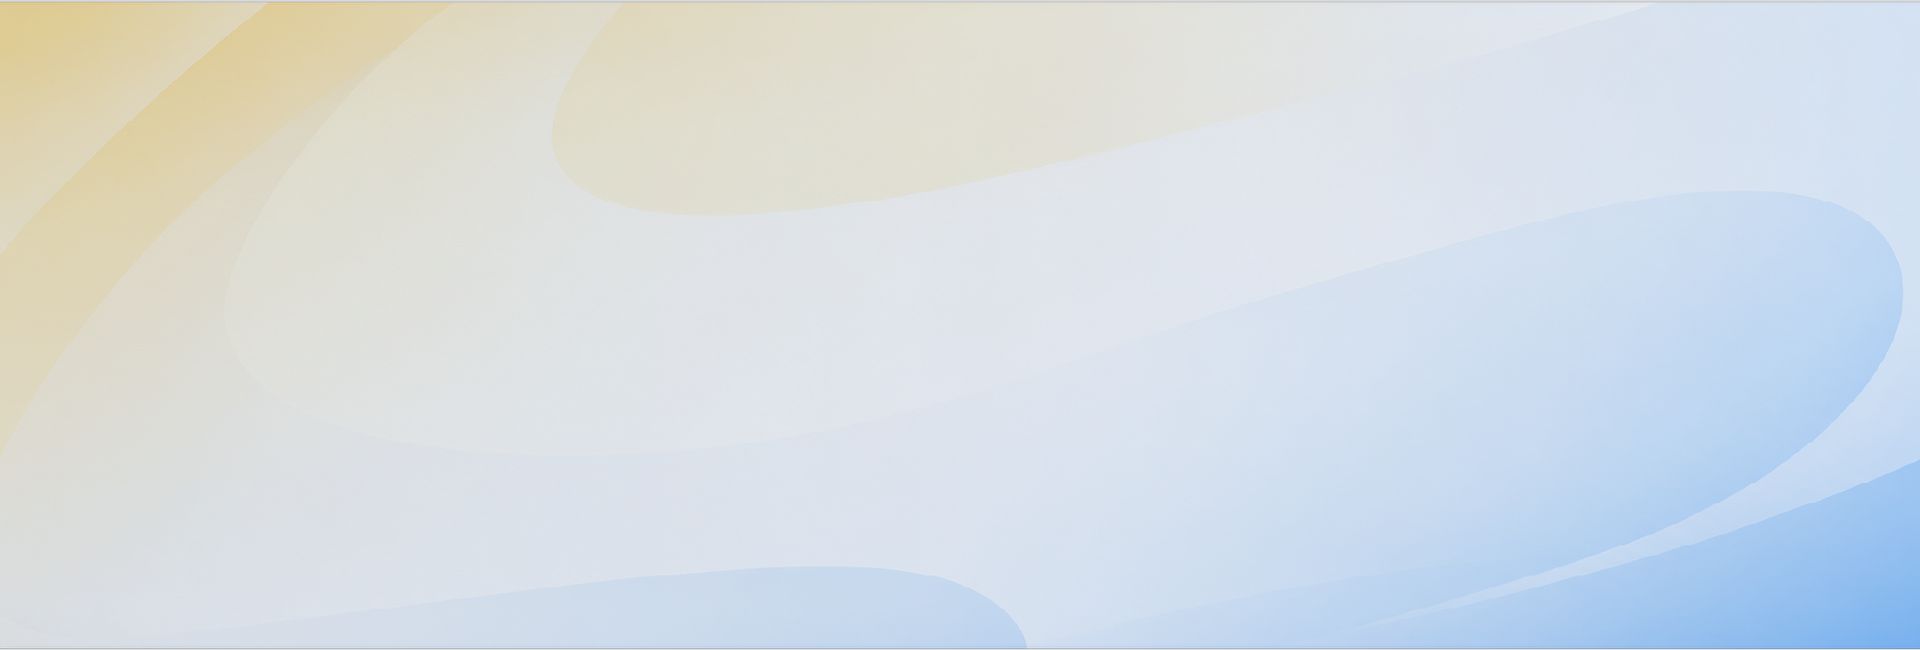
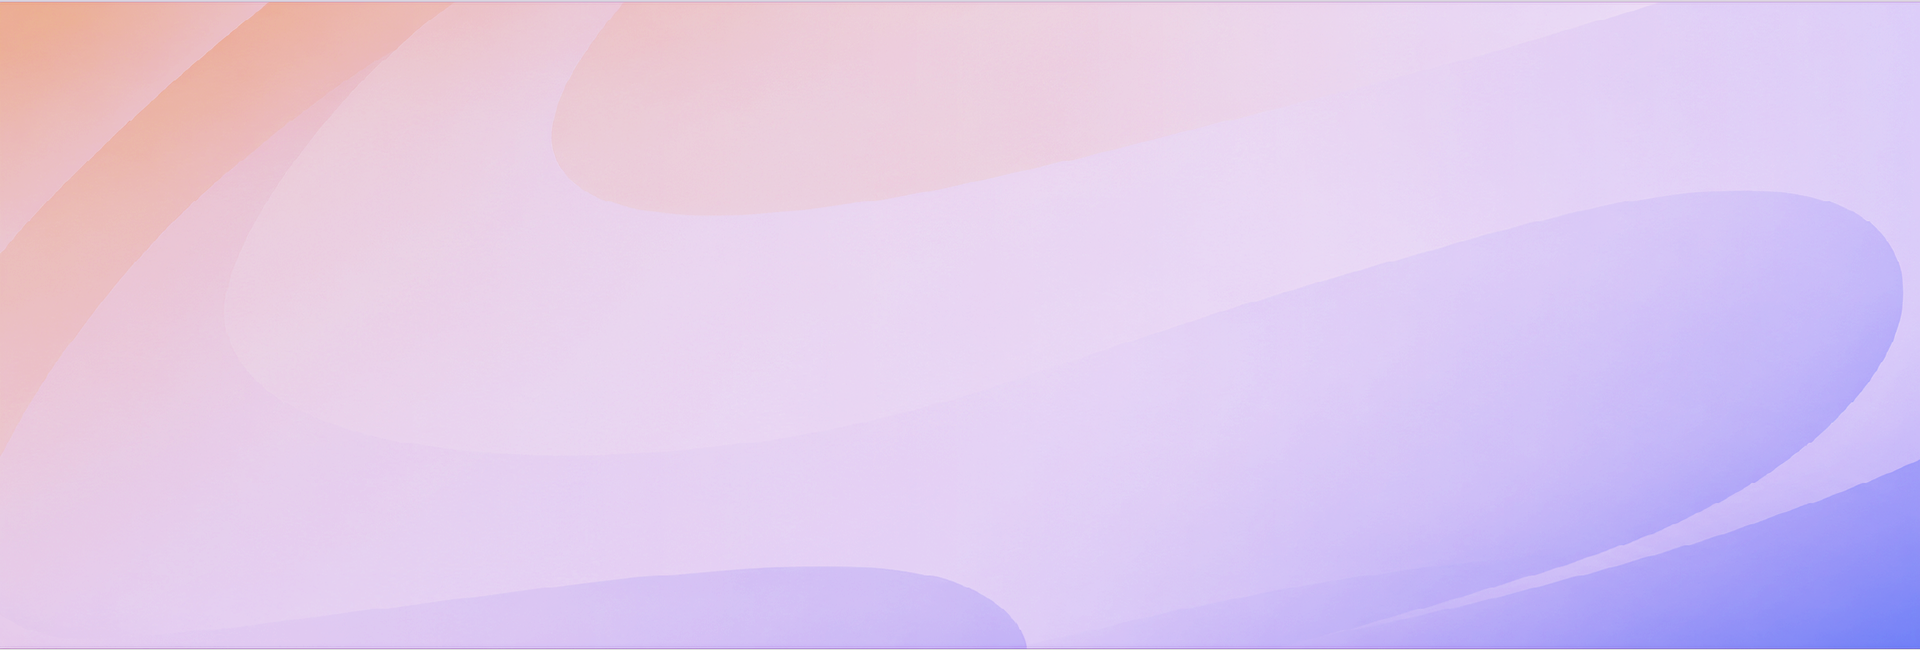
小的修正

Changed region(s): [[0.0312, 0.2769, 1.0, 1.0], [0.0, 0.0, 0.25, 0.3077], [0.0, 0.3077, 0.0312, 0.3385]]

diff --git a/about.html b/about.html
@@ -22,7 +22,7 @@
         <div class="about-intro-copy">
           <h2>关于我们</h2>
           <p>
-            北京星荧科技有限公司是一家专业从事研发、设计、生产以及销售医疗器械产品的初创型科技企业。公司汇集了来自百度，科大讯飞、康明斯等公司的专业技术人员，得益于北京大学，北京科技大学、中国矿业大学的技术支持，具备专业医疗器械的机械结构设计、电子电路设计、软件算法开发、外观工业设计以及供应链生产管理能力。目前与北医三院多科室医生联合开发，打造一站式医工结合落地模式，致力于医疗机器人，AI视觉辅助，医用耗材等方向。
+            北京星荧科技有限公司是一家专业从事研发、设计、生产以及销售医疗器械产品的初创型科技企业。公司汇集了来自百度、科大讯飞、康明斯等公司的专业技术人员，得益于北京大学、北京科技大学、中国矿业大学的技术支持，具备专业医疗器械的机械结构设计、电子电路设计、软件算法开发、外观工业设计以及供应链生产管理能力。目前与北医三院多科室医生联合开发，打造一站式医工结合落地模式，致力于医疗机器人，AI视觉辅助，医用耗材等方向。
           </p>
         </div>
         <div class="about-intro-image">
